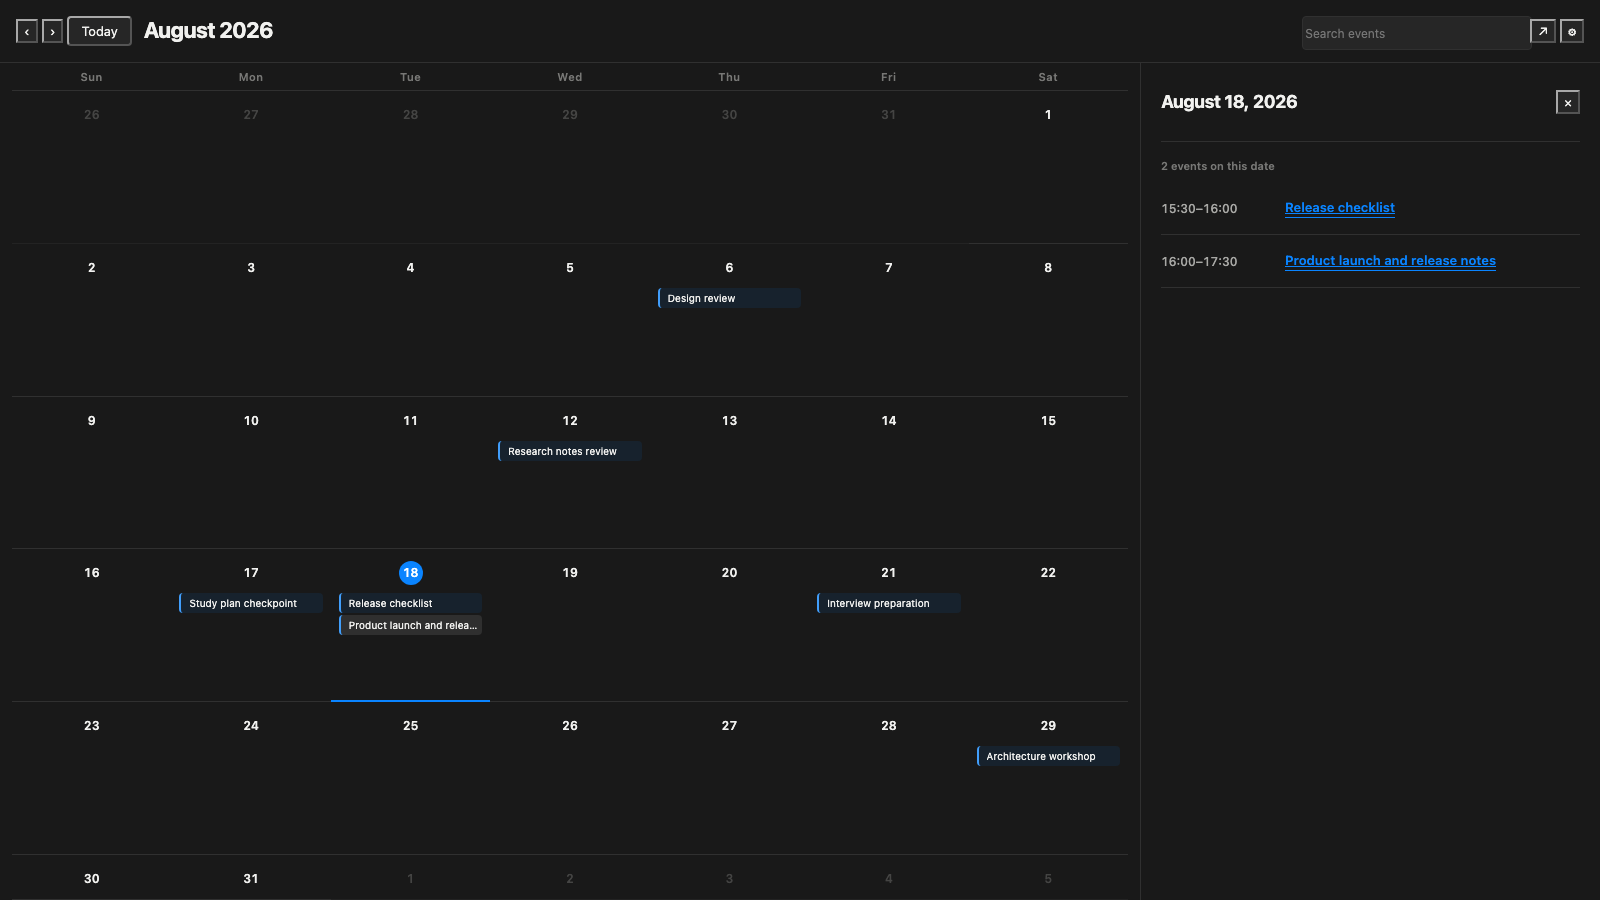
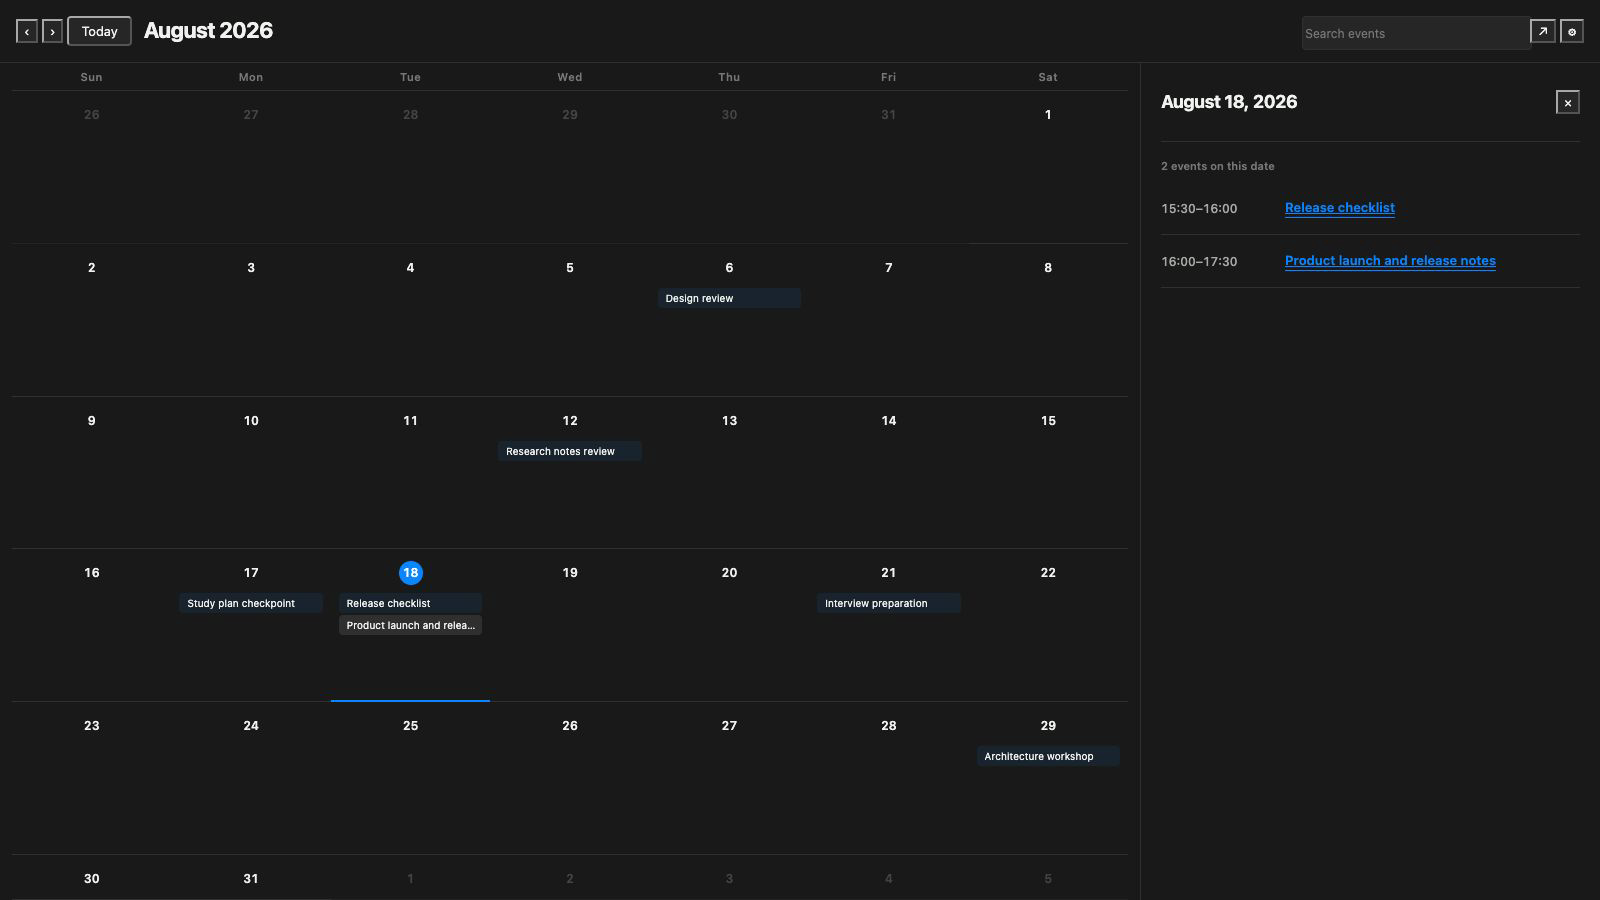
docs: publish Google consent pages and walkthrough

diff --git a/tests/fixtures/link-calendar-dark.html b/tests/fixtures/link-calendar-dark.html
@@ -85,6 +85,166 @@
     html, body, .workspace-leaf-content, .view-content { height: 100%; margin: 0; }
     body.is-overview .link-calendar__body { grid-template-columns: minmax(0, 1fr); }
     body.is-overview .link-calendar__side { display: none; }
+    .demo-settings,
+    .demo-toast { display: none; }
+    body.is-google main { display: none; }
+    body.is-google .demo-settings { display: grid; }
+    .demo-settings {
+      height: 100%;
+      grid-template-columns: 300px minmax(0, 1fr);
+      background: var(--background-primary);
+      color: var(--text-normal);
+      font-family: var(--font-interface);
+    }
+    .demo-settings__nav {
+      padding: 52px 24px;
+      background: var(--background-secondary);
+      border-right: 1px solid var(--divider-color);
+    }
+    .demo-settings__nav-title {
+      margin: 0 10px 28px;
+      color: var(--text-faint);
+      font-size: 12px;
+      font-weight: 700;
+      letter-spacing: .08em;
+      text-transform: uppercase;
+    }
+    .demo-settings__nav-item {
+      padding: 10px 12px;
+      border-radius: 8px;
+      color: var(--text-muted);
+      font-size: 14px;
+    }
+    .demo-settings__nav-item.is-active {
+      background: var(--background-modifier-hover);
+      color: var(--text-normal);
+      font-weight: 600;
+    }
+    .demo-settings__content {
+      max-width: 940px;
+      padding: 58px 72px 80px;
+    }
+    .demo-settings__eyebrow {
+      color: var(--text-faint);
+      font-size: 12px;
+      font-weight: 700;
+      letter-spacing: .08em;
+      text-transform: uppercase;
+    }
+    .demo-settings h1 {
+      margin: 8px 0 14px;
+      font-size: 30px;
+      letter-spacing: -.03em;
+    }
+    .demo-settings__intro {
+      max-width: 690px;
+      margin: 0 0 38px;
+      color: var(--text-muted);
+      font-size: 15px;
+      line-height: 1.6;
+    }
+    .demo-settings__section {
+      overflow: hidden;
+      border: 1px solid var(--divider-color);
+      border-radius: 12px;
+      background: var(--background-secondary);
+    }
+    .demo-settings__row {
+      display: grid;
+      min-height: 70px;
+      grid-template-columns: minmax(0, 1fr) auto;
+      align-items: center;
+      gap: 24px;
+      padding: 0 20px;
+      border-bottom: 1px solid var(--divider-color);
+    }
+    .demo-settings__row:last-child { border-bottom: 0; }
+    .demo-settings__name {
+      margin-bottom: 4px;
+      font-size: 14px;
+      font-weight: 600;
+    }
+    .demo-settings__desc {
+      color: var(--text-muted);
+      font-size: 12px;
+    }
+    .demo-toggle {
+      position: relative;
+      width: 36px;
+      height: 20px;
+      border-radius: 999px;
+      background: var(--interactive-accent);
+    }
+    .demo-toggle::after {
+      position: absolute;
+      top: 3px;
+      right: 3px;
+      width: 14px;
+      height: 14px;
+      border-radius: 50%;
+      background: white;
+      content: "";
+    }
+    .demo-status {
+      display: inline-flex;
+      align-items: center;
+      gap: 7px;
+      color: #63d58b;
+      font-size: 12px;
+      font-weight: 600;
+    }
+    .demo-status::before {
+      width: 7px;
+      height: 7px;
+      border-radius: 50%;
+      background: #30d158;
+      content: "";
+    }
+    .demo-button {
+      padding: 8px 14px;
+      border: 0;
+      border-radius: 7px;
+      background: var(--interactive-accent);
+      color: var(--text-on-accent);
+      font: 600 12px var(--font-interface);
+    }
+    .demo-calendar-name {
+      display: flex;
+      align-items: center;
+      gap: 10px;
+      color: var(--text-normal);
+      font-size: 13px;
+    }
+    .demo-calendar-name::before {
+      width: 10px;
+      height: 10px;
+      border-radius: 3px;
+      background: var(--interactive-accent);
+      content: "";
+    }
+    body.is-synced .demo-toast {
+      position: fixed;
+      right: 26px;
+      bottom: 26px;
+      z-index: 5;
+      display: block;
+      width: 420px;
+      padding: 16px 18px;
+      border: 1px solid #ffffff1a;
+      border-radius: 10px;
+      background: #292929;
+      box-shadow: var(--shadow-l);
+      color: var(--text-normal);
+      font: 13px/1.5 var(--font-interface);
+    }
+    .demo-toast strong {
+      display: block;
+      margin-bottom: 4px;
+      color: #63d58b;
+      font-size: 12px;
+      letter-spacing: .04em;
+      text-transform: uppercase;
+    }
   </style>
 </head>
 <body>
@@ -156,6 +316,43 @@
       </div>
     </div>
   </main>
+  <section class="demo-settings" aria-label="Link Calendar settings demo">
+    <nav class="demo-settings__nav">
+      <div class="demo-settings__nav-title">Options</div>
+      <div class="demo-settings__nav-item">Editor</div>
+      <div class="demo-settings__nav-item">Files and links</div>
+      <div class="demo-settings__nav-item is-active">Link Calendar Navigator</div>
+      <div class="demo-settings__nav-item">Community plugins</div>
+    </nav>
+    <div class="demo-settings__content">
+      <div class="demo-settings__eyebrow">Optional integration</div>
+      <h1>Google Calendar</h1>
+      <p class="demo-settings__intro">Send only the configured sources you select to a dedicated Google calendar. The integration is off by default, and your Markdown remains the source of truth.</p>
+      <div class="demo-settings__section">
+        <div class="demo-settings__row">
+          <div><div class="demo-settings__name">Enable Google Calendar</div><div class="demo-settings__desc">No account or network request is used until this is enabled.</div></div>
+          <div class="demo-toggle" aria-label="Enabled"></div>
+        </div>
+        <div class="demo-settings__row">
+          <div><div class="demo-settings__name">Connected securely</div><div class="demo-settings__desc">Tokens are stored in Obsidian SecretStorage.</div></div>
+          <div class="demo-status">Connected</div>
+        </div>
+        <div class="demo-settings__row">
+          <div><div class="demo-settings__name">Destination calendar</div><div class="demo-settings__desc">The plugin cannot read or modify unrelated calendars.</div></div>
+          <div class="demo-calendar-name">Link Calendar</div>
+        </div>
+        <div class="demo-settings__row">
+          <div><div class="demo-settings__name">Sync source: Project notes</div><div class="demo-settings__desc">Only this configured folder source will be projected.</div></div>
+          <div class="demo-toggle" aria-label="Source enabled"></div>
+        </div>
+        <div class="demo-settings__row">
+          <div><div class="demo-settings__name">Sync now</div><div class="demo-settings__desc">Manual, one-way, conflict-aware projection from Markdown.</div></div>
+          <button class="demo-button">Sync to Google</button>
+        </div>
+      </div>
+    </div>
+  </section>
+  <div class="demo-toast" role="status"><strong>Sync complete</strong>0 created · 0 updated · 7 unchanged · 0 conflicts · 0 failed</div>
   <script>
     const fixtureOptions = new URLSearchParams(window.location.search);
     if (fixtureOptions.has("light")) {
@@ -163,6 +360,12 @@
     }
     if (fixtureOptions.has("overview")) {
       document.body.classList.add("is-overview");
+    }
+    if (fixtureOptions.has("google")) {
+      document.body.classList.add("is-google");
+    }
+    if (fixtureOptions.has("synced")) {
+      document.body.classList.add("is-synced");
     }
   </script>
 </body>

diff --git a/docs/google-calendar.md b/docs/google-calendar.md
@@ -64,6 +64,8 @@ Required Worker configuration:
 
 The GitHub repository variable `LINK_CALENDAR_GOOGLE_RELAY_URL` supplies the same public origin to CI and release builds. The release verifier rejects empty, local, example, credential-bearing, query-bearing, or mismatched relay URLs before an asset can be published.
 
+The Worker also serves the OAuth application's public homepage at `/` and privacy policy at `/privacy`. Keep those pages aligned with `README.md` and `PRIVACY.md`; their tests are part of `npm run test:oauth`.
+
 `npm run verify:release` also calls the deployed `/health` endpoint with a ten-second timeout and requires protocol version `1`. The release workflow cannot publish assets when the configured relay is missing, unhealthy, or incompatible.
 
 The manual `OAuth relay` GitHub workflow runs the isolated tests, deploys only `oauth-worker/`, and rechecks the live protocol. It needs repository secrets `CLOUDFLARE_ACCOUNT_ID` and `CLOUDFLARE_API_TOKEN`; Google and state secrets remain in Cloudflare and are not copied into GitHub.

diff --git a/README.md b/README.md
@@ -15,7 +15,9 @@ Link Calendar Navigator finds explicit dates, periods, history entries, and dead
 
 **Markdown → automatic timeline → original note.** Optional sync adds **selected source → dedicated Google calendar** without changing the source of truth.
 
-![Link Calendar Navigator moving from Markdown dates to a readable month and daily agenda](docs/media/link-calendar-demo.gif)
+![Link Calendar Navigator moving from Markdown dates to a readable month, daily agenda, optional dedicated Google calendar, and idempotent sync result](docs/media/link-calendar-demo.gif)
+
+The public-safe 16:9 walkthrough shows the whole boundary: Markdown timeline, canonical-note agenda, opt-in `Link Calendar` destination, and a repeat sync that leaves seven unchanged events untouched.
 
 ![Link Calendar Navigator showing compact one-line timeline entries in a sharp 16:9 release fixture](docs/media/link-calendar-overview.png)
 

diff --git a/CHANGELOG.md b/CHANGELOG.md
@@ -7,6 +7,7 @@
 - Store refresh tokens through Obsidian SecretStorage and isolate the PKCE OAuth exchange, refresh, and revocation flow in a no-storage Cloudflare Worker adapter.
 - Make event creation idempotent, preserve remote fields outside the plugin's ownership, stop on ETag conflicts, and never infer remote deletion from a missing local note.
 - Document the exact privacy, data, conflict, and background-execution boundaries and add isolated OAuth, settings, API, projection, collision, and failure-path regression tests.
+- Refresh the public-safe 16:9 walkthrough to show the opt-in dedicated-calendar boundary and an idempotent repeat sync without exposing a real account or event.
 
 ## 3.5.0
 

diff --git a/PRIVACY.md b/PRIVACY.md
@@ -1,6 +1,8 @@
 # Privacy policy
 
-Last updated: 2026-09-03
+Last updated: 2026-09-04
+
+Public web copy: [link-calendar-oauth.woonyong.com/privacy](https://link-calendar-oauth.woonyong.com/privacy)
 
 Link Calendar Navigator is an open-source Obsidian plugin. Its calendar index runs locally by default. Google Calendar integration is optional and disabled until a user explicitly enables and connects it.
 
